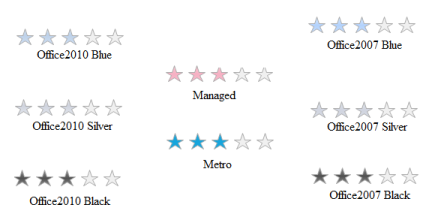
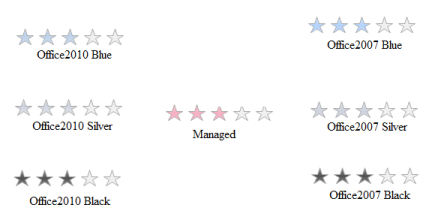
WF-41635 Change the color codes for FontListBox for Office2016 theme WF-41632 Change the color codes for Rating Control for Office2016 theme WF-41634 Change the color codes for EditableList for Office2016 theme

diff --git a/WindowsForms/Rating/Styling.md b/WindowsForms/Rating/Styling.md
@@ -13,62 +13,86 @@ Styling of shapes can be done either by using predefined visual styles or by Bac
 
 ## Built-in
 
-Rating control supports predefined visual styles such as Default, Office2007, Office2010 and Metro with all three color schemes for Office Styles. The style can be set by the VisualStyle property.
+Rating control supports predefined visual styles such as Default, Office2007, Office2010, Metro, Office2016ColorFul, Office2016DarkGray, Office2016White, Office2016Black  for Office Styles. The style can be set by the VisualStyle property.
 
-{% tabs %}
 {% highlight c# %}
 
-this.ratingControl1.VisualStyle = Syncfusion.Windows.Forms.Tools.RatingControl.Style.Metro;
-this.ratingControl1.OfficeColorScheme = Syncfusion.Windows.Forms.Tools.OfficeColorSchemes.Black;
+this.ratingControl1.VisualStyle = Syncfusion.Windows.Forms.Tools.RatingControl.Style.Office2016ColorFul;
 
 {% endhighlight %}
 
-{% highlight vb %}
 
-Me.ratingControl1.VisualStyle = Syncfusion.Windows.Forms.Tools.RatingControl.Style.Metro
-Me.ratingControl1.OfficeColorScheme = Syncfusion.Windows.Forms.Tools.OfficeColorSchemes.Black
+{% highlight vbnet %}
+
+Me.ratingControl1.VisualStyle = Syncfusion.Windows.Forms.Tools.RatingControl.Style.Office2016ColorFul
+{% endhighlight %}
+
+
+![](Styling_images/RatingControl.png)
+
+
+OfficeColorScheme for Rating Control can be set using below code 
+
+{% highlight c# %}
+
+this.ratingControl1.OfficeColorScheme = Syncfusion.Windows.Forms.Tools.OfficeColorSchemes.Blue;
 
 {% endhighlight %}
-{% endtabs %}
+
+
+{% highlight vbnet %}
+
+Me.ratingControl1.OfficeColorScheme = Syncfusion.Windows.Forms.Tools.OfficeColorSchemes.Blue
+
+{% endhighlight %}
 
 ![](Styling_images/Styling_img1.png)
+
 
 ## Custom
 
 The properties ItemHighlightStartColor, ItemHighlightEndColor, ItemSelectionStartColor, ItemSelectionEndColor are applied only if the ApplyGradientColors property is enabled.
 
-{% tabs %}
 {% highlight c# %}
 
 this.ratingControl3.ItemHighlightEndColor = Color.Red;
+
 this.ratingControl3.ItemHighlightStartColor = Color.Green;
+
 this.ratingControl3.ItemSelectionEndColor = Color.Yellow;
+
 this.ratingControl3.ItemSelectionStartColor = Color.LightYellow;
 
 {% endhighlight %}
 
-{% highlight vb %}
+{% highlight vbnet %}
 
 Me.ratingControl3.ItemHighlightEndColor = Color.Red
+
 Me.ratingControl3.ItemHighlightStartColor = Color.Green
+
 Me.ratingControl3.ItemSelectionEndColor = Color.Yellow
+
 Me.ratingControl3.ItemSelectionStartColor = Color.LightYellow
 
 {% endhighlight %}
-{% endtabs %}
 
-{% tabs %}
 {% highlight c# %}
 
 this.ratingControl1.ApplyGradientColors = true;
 
 {% endhighlight %}
 
-{% highlight vb %}
+
+{% highlight vbnet %}
 
 Me.ratingControl1.ApplyGradientColors = True
 
 {% endhighlight %}
-{% endtabs %}
+
+
 
 ![](Styling_images/Styling_img2.png)
+
+
+

diff --git a/WindowsForms/EditableList/Style.md b/WindowsForms/EditableList/Style.md
@@ -9,25 +9,47 @@ documentation: ug
 
 # Style   
 
-EditableList supports visual styles such as Default, Metro. The style can be set using Style property. 
-
-* Default
-* Metro
+EditableList supports visual styles such as Default, Metro, Office2016. The style can be set using Style property. 
 
 The following code example allows you to set the style for the EditableList.
 
-{% tabs %}
 {% highlight c# %}
 
-this.editableList1.Style = Syncfusion.Windows.Forms.Appearance.Metro;
+this.editableList1.Style = Syncfusion.Windows.Forms.Appearance.Office2016;
 
 {% endhighlight %}
 
-{% highlight vb %}
+{% highlight vbnet %}
 
-Me.editableList1.Style = Syncfusion.Windows.Forms.Appearance.Metro
+Me.editableList1.Style = Syncfusion.Windows.Forms.Appearance.Office2016
 
 {% endhighlight %}
-{% endtabs %}
 
-![](Style_images/Style_img1.png)
+![](Style_images/Style_img3.png)
+
+The Office2016 Style has following Colorschemes
+
+* Colorful
+* White
+* DarkGray
+* Black
+
+The following code example allows you to set the Colorschemes for the Office 2016 Theme.
+
+{% highlight c# %}
+
+this.editableList1.Office2016ColorScheme = ScrollBarOffice2016ColorScheme.Colorful;
+
+{% endhighlight %}
+
+{% highlight vbnet %}
+
+Me.editableList1.Office2016ColorScheme = ScrollBarOffice2016ColorScheme.Colorful
+
+{% endhighlight %}
+
+
+![](Style_images/Style_img2.png)
+
+
+

diff --git a/WindowsForms/FontListBox/style.md b/WindowsForms/FontListBox/style.md
@@ -1,0 +1,42 @@
+---
+layout: post
+title: Style | WindowsForms | Syncfusion
+description: style   
+platform: WindowsForms
+control: FontListBox
+documentation: ug
+---
+
+# Visual Style   
+
+The style for FontListBox can be set using VisualStyle property. 
+The visual style includes
+
+* Default
+* Metro
+* Office 2016 Colorful
+* Office 2016 White
+* Office 2016 Black
+* Office 2016 DarkGray
+
+The following code example allows you to set the style for the FontListBox.
+
+{% highlight c# %}
+
+this.fontListBox1.VisualStyle = Syncfusion.Windows.Forms.Tools.FontListBox.FontListBoxStyle.Office2016Black;
+
+{% endhighlight %}
+
+{% highlight vbnet %}
+
+
+Me.fontListBox1.VisualStyle = Syncfusion.Windows.Forms.Tools.FontListBox.FontListBoxStyle.Office2016Black;
+
+{% endhighlight %}
+
+
+
+![](Overview_images/Fontlistbox.png)
+
+
+
